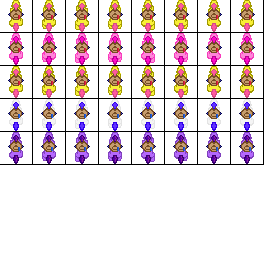
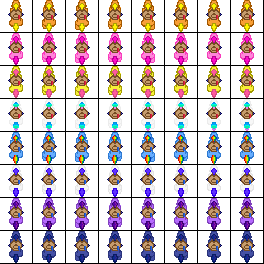
Lots of shit.

diff --git a/src/pudgewars/entities/PudgeEntity.java b/src/pudgewars/entities/PudgeEntity.java
@@ -37,6 +37,7 @@ public class PudgeEntity extends HookableEntity implements LightSource {
 
 	public final static double HOOK_COOLDOWN = 3;
 	public final static double GRAPPLEHOOK_COOLDOWN = 15;
+	public final static double BURNERHOOK_COOLDOWN = 8;
 
 	public final static double ATK_RANGE = 2;
 
@@ -52,9 +53,10 @@ public class PudgeEntity extends HookableEntity implements LightSource {
 
 	// Hooking
 	public int activeHook;
-	public double hookCooldown;
-	public double grappleCooldown;
 	public boolean isHooking;
+	public double hookCooldown;
+	public double burnerCooldown;
+	public double grappleCooldown;
 	// Attacking
 	public double attackInterval;
 
@@ -78,8 +80,10 @@ public class PudgeEntity extends HookableEntity implements LightSource {
 	// Respawning
 	public double respawnInterval = RESPAWN_INTERVAL;
 
-	public PudgeEntity(Vector2 position, Team team) {
+	public PudgeEntity(Vector2 position, Team team, int clientID) {
 		super(position, new Vector2(COLLISION_WIDTH, COLLISION_HEIGHT));
+
+		this.ClientID = clientID;
 
 		this.team = team;
 
@@ -89,7 +93,13 @@ public class PudgeEntity extends HookableEntity implements LightSource {
 
 		rigidbody.physicsSlide = true;
 
-		ani = Animation.makeAnimation("horse2", 8, 32, 32, 0.05);
+		int index = clientID;
+		if (team == Team.leftTeam) index /= 2;
+		else index = (index + 1) / 2;
+		index = team == Team.leftTeam ? index : index + 4;
+		System.out.println("Index: " + index);
+
+		ani = Animation.makeAnimation("cowboys", 8, index, 32, 32, 0.05);
 		ani.startAnimation();
 
 		heart = Animation.makeAnimation("heart4", 8, 32, 32, 1 / 8.0);
@@ -146,30 +156,44 @@ public class PudgeEntity extends HookableEntity implements LightSource {
 			if (hookCooldown < 0) hookCooldown = 0;
 			if (grappleCooldown > 0) grappleCooldown -= Time.getTickInterval();
 			if (grappleCooldown < 0) grappleCooldown = 0;
+			if (burnerCooldown > 0) burnerCooldown -= Time.getTickInterval();
+			if (burnerCooldown < 0) burnerCooldown = 0;
 
 			// Change Cursor
-			if (Game.keyInput.specialHook.isDown) Game.cursor.setCursor("Special");
-			else Game.cursor.setCursor("Default");
+			// if (Game.keyInput.specialHook.isDown) Game.cursor.setCursor("Special");
+			// else Game.cursor.setCursor("Default");
+
+			if (Game.keyInput.n1.wasPressed()) activeHook = HookType.NORMAL;
+			if (Game.keyInput.n2.wasPressed()) activeHook = HookType.BURNER;
+			if (Game.keyInput.n3.wasPressed()) activeHook = HookType.GRAPPLE;
 
 			// Hover
 			if (Game.keyInput.space.isDown) Game.focus = transform.position.clone();
 
 			Vector2 left = Game.mouseInput.left.wasPressed();
 			if (left != null) {
-				if (!Game.keyInput.specialHook.isDown) {
-					if (hookCooldown <= 0) {
-						if (setHook(Game.s.screenToWorldPoint(left), HookType.BURNER)) hookCooldown = HOOK_COOLDOWN;
-						hookTarget = Game.s.screenToWorldPoint(left);
-						shouldSendNetworkData = true;
-					}
-
-					canEntityCollide = true;
-				} else {
-					if (grappleCooldown <= 0) {
-						if (setHook(Game.s.screenToWorldPoint(left), HookType.GRAPPLE)) grappleCooldown = GRAPPLEHOOK_COOLDOWN;
-						hookTarget = Game.s.screenToWorldPoint(left);
-						shouldSendNetworkData = true;
-					}
+				switch (activeHook) {
+					case HookType.NORMAL:
+						if (hookCooldown <= 0) {
+							if (setHook(Game.s.screenToWorldPoint(left), HookType.NORMAL)) hookCooldown = HOOK_COOLDOWN;
+							hookTarget = Game.s.screenToWorldPoint(left);
+							shouldSendNetworkData = true;
+						}
+						break;
+					case HookType.BURNER:
+						if (hookCooldown <= 0) {
+							if (setHook(Game.s.screenToWorldPoint(left), HookType.BURNER)) burnerCooldown = BURNERHOOK_COOLDOWN;
+							hookTarget = Game.s.screenToWorldPoint(left);
+							shouldSendNetworkData = true;
+						}
+						break;
+					case HookType.GRAPPLE:
+						if (grappleCooldown <= 0) {
+							if (setHook(Game.s.screenToWorldPoint(left), HookType.GRAPPLE)) grappleCooldown = GRAPPLEHOOK_COOLDOWN;
+							hookTarget = Game.s.screenToWorldPoint(left);
+							shouldSendNetworkData = true;
+						}
+						break;
 				}
 			}
 
@@ -271,10 +295,6 @@ public class PudgeEntity extends HookableEntity implements LightSource {
 		int lifebarHeight = fullLife.getHeight(null);
 		int lifebarActual = (int) (fullLife.getWidth(null) * stats.lifePercentage());
 
-		// Game.s.g.drawImage(emptyLife, (int) v.x - lifebarWidth / 2, (int) v.y
-		// - lifebarHeight / 2, lifebarWidth, lifebarHeight, null);
-		// life.renderCenteredAt((int) v.x, (int) v.y, stats.lifePercentage());
-
 		Game.s.g.drawImage(emptyLife, (int) v.x - lifebarWidth / 2, (int) v.y - lifebarHeight / 2, (int) v.x + lifebarWidth / 2, (int) v.y + lifebarHeight / 2, //
 				0, 0, lifebarWidth, lifebarHeight, null);
 		Game.s.g.drawImage(fullLife, (int) v.x - lifebarWidth / 2, (int) v.y - lifebarHeight / 2, (int) v.x - lifebarWidth / 2 + lifebarActual, (int) v.y + lifebarHeight / 2, //
@@ -341,7 +361,6 @@ public class PudgeEntity extends HookableEntity implements LightSource {
 	public boolean shouldBlock(BBOwner b) {
 		if (b instanceof HookEntity) return true;
 		if (b instanceof PudgeEntity || b instanceof CowEntity) {
-			// System.out.println("Collided with Pudge/Cow: canEntityCollide = " + canEntityCollide);
 			return canEntityCollide ? true : isHooking;
 		}
 		if (canTileCollide) {
@@ -416,8 +435,6 @@ public class PudgeEntity extends HookableEntity implements LightSource {
 
 			int ht = Integer.parseInt(t[7]);
 			setHook(hookTarget, ht);
-			// if (t[7].equals("false")) setHook(hookTarget, HookType.NORMAL);
-			// else setHook(hookTarget, HookType.GRAPPLE);
 		}
 
 		this.stats.setNetString(t[8]);

diff --git a/src/pudgewars/components/Stats.java b/src/pudgewars/components/Stats.java
@@ -25,6 +25,7 @@ public class Stats {
 
 	public Image[] hookCooldownImages;
 	public Image[] grappleCooldownImages;
+	public Image[] burnerCooldownImages;
 	public Image activeHookSelection;
 
 	// Movement Data
@@ -70,11 +71,14 @@ public class Stats {
 		lifeImages[2] = new ArcImage(ImageHandler.get().getImage("hp_empty"), ImageHandler.get().getImage("hp_quarter"));
 
 		hookCooldownImages = new Image[2];
-		hookCooldownImages[0] = ImageHandler.get().getImage("lasso_icon_empty");
-		hookCooldownImages[1] = ImageHandler.get().getImage("lasso_icon_full");
+		hookCooldownImages[0] = ImageHandler.get().getImage("hooks/lasso_icon_empty");
+		hookCooldownImages[1] = ImageHandler.get().getImage("hooks/lasso_icon_full");
 		grappleCooldownImages = new Image[2];
-		grappleCooldownImages[0] = ImageHandler.get().getImage("grapple_icon_empty");
-		grappleCooldownImages[1] = ImageHandler.get().getImage("grapple_icon_full");
+		grappleCooldownImages[0] = ImageHandler.get().getImage("hooks/grapple_icon_empty");
+		grappleCooldownImages[1] = ImageHandler.get().getImage("hooks/grapple_icon_full");
+		burnerCooldownImages = new Image[2];
+		burnerCooldownImages[0] = ImageHandler.get().getImage("hooks/burner_empty");
+		burnerCooldownImages[1] = ImageHandler.get().getImage("hooks/burner_full");
 
 		activeHookSelection = ImageHandler.get().getImage("hooks/activehook");
 	}
@@ -169,20 +173,26 @@ public class Stats {
 		/*
 		 * Hooks
 		 */
-		// Hook Cooldown
-		GUI.partialHorizontalBar(hookCooldownImages, Game.s.width - (RIGHT_PADDING + grappleCooldownImages[0].getWidth(null) + BAR_PADDING + hookCooldownImages[0].getWidth(null)), //
-				Game.s.height - (BOT_PADDING + hookCooldownImages[0].getHeight(null)), //
-				(1 - (pudge.hookCooldown / PudgeEntity.HOOK_COOLDOWN)));
-		if (pudge.activeHook == HookType.NORMAL) {
-			Game.s.g.drawImage(activeHookSelection, //
-					Game.s.width - (RIGHT_PADDING + grappleCooldownImages[0].getWidth(null) + BAR_PADDING + hookCooldownImages[0].getWidth(null)), //
-					Game.s.height - (BOT_PADDING + hookCooldownImages[0].getHeight(null)), null);
-		}
+		int cW = grappleCooldownImages[0].getWidth(null); // = Cooldown Width
+		int cH = grappleCooldownImages[0].getHeight(null); // = Cooldown height
 
+		int hookTypesCount = 3;
+		int sx = Game.s.width - (RIGHT_PADDING + hookTypesCount * cW + (hookTypesCount - 1) * BAR_PADDING);
+		int sy = Game.s.height - (BOT_PADDING + cH);
+		int xInt = cW + BAR_PADDING;
+
+		// Hook Cooldown
+		GUI.partialHorizontalBar(hookCooldownImages, sx, sy, (1 - (pudge.hookCooldown / PudgeEntity.HOOK_COOLDOWN)));
+		sx += xInt;
+		// Hook Cooldown
+		GUI.partialHorizontalBar(burnerCooldownImages, sx, sy, (1 - (pudge.burnerCooldown / PudgeEntity.BURNERHOOK_COOLDOWN)));
+		sx += xInt;
 		// Grapple Cooldown
-		GUI.partialHorizontalBar(grappleCooldownImages, Game.s.width - (RIGHT_PADDING + grappleCooldownImages[0].getWidth(null)), //
-				Game.s.height - (BOT_PADDING + grappleCooldownImages[0].getHeight(null)), //
-				(1 - (pudge.grappleCooldown / PudgeEntity.GRAPPLEHOOK_COOLDOWN)));
+		GUI.partialHorizontalBar(grappleCooldownImages, sx, sy, (1 - (pudge.grappleCooldown / PudgeEntity.GRAPPLEHOOK_COOLDOWN)));
+
+		// Draw Active Hook Selection
+		int nx = Game.s.width - (RIGHT_PADDING + hookTypesCount * cW + (hookTypesCount - 1) * BAR_PADDING) + pudge.activeHook * xInt;
+		Game.s.g.drawImage(activeHookSelection, nx, sy, null);
 
 		// Draw Experience
 		int ex = LEFT_PADDING + expImages[0].getWidth(null) + BAR_PADDING;
@@ -195,23 +205,12 @@ public class Stats {
 			GUI.partialHorizontalBar(tImg, ex, ey, ((((int) experience)) / 10.0));
 		}
 
-		int TOP_PADDING = 10;
-		int SIDE_PADDING = 10;
-		int MID_SPACING = 4;
-
 		int radius = 60;
 		int cx = Game.s.width / 2;
 		int cy = Game.s.height / 2;
 		double angle = 0;
 		if (isOpen) {
-			// int x = SIDE_PADDING;
-			// int y = TOP_PADDING;
 			for (int i = 0; i < CharStat.length; i++) {
-				// if (i == CharStat.length / 2) {
-				// x = Game.s.width - (ref[i].baseImage.getWidth(null) + SIDE_PADDING);
-				// y = TOP_PADDING;
-				// }
-
 				if (ref[i].drawButtons((int) (radius * Math.cos(angle)) + cx - ref[i].baseImage.getWidth(null) / 2, //
 						(int) (radius * Math.sin(angle)) + cy - ref[i].baseImage.getHeight(null) / 2)) {
 					if (ref[i].getCost() <= experience) {
@@ -222,8 +221,6 @@ public class Stats {
 					}
 				}
 				angle += Math.PI / 3;
-
-				// y += ref[i].baseImage.getHeight(null) + MID_SPACING;
 			}
 		}
 	}

diff --git a/src/pudgewars/entities/ClientEntityManager.java b/src/pudgewars/entities/ClientEntityManager.java
@@ -21,8 +21,7 @@ public class ClientEntityManager extends EntityManager {
 		Team team = (t[6].equals("leftTeam")) ? Team.leftTeam : Team.rightTeam;
 
 		boolean controllable = (t[0].equals("true")) ? true : false;
-		PudgeEntity pudge = new PudgeEntity(position, team);
-		pudge.ClientID = Integer.parseInt(t[2]);
+		PudgeEntity pudge = new PudgeEntity(position, team, Integer.parseInt(t[2]));
 		pudge.name = t[10];
 		pudge.wasUpdated = true;
 
@@ -31,9 +30,9 @@ public class ClientEntityManager extends EntityManager {
 			player.controllable = true;
 		}
 		entities.add(pudge);
-		
+
 		int pudgeIndex = Game.entities.getIndexByClientID(Game.entities.respawnEntities, pudge.ClientID, PudgeEntity.class);
-		if(pudgeIndex != -1) Game.entities.respawnEntities.remove(pudgeIndex);
+		if (pudgeIndex != -1) Game.entities.respawnEntities.remove(pudgeIndex);
 	}
 
 	public void addCowEntity(String msg) {
@@ -58,7 +57,7 @@ public class ClientEntityManager extends EntityManager {
 
 		Vector2 click = new Vector2(Float.parseFloat(u[0]), Float.parseFloat(u[1]));
 		Entity p = Game.entities.entities.get(getIndexByClientID(Game.entities.entities, Integer.parseInt(t[2]), PudgeEntity.class));
-		
+
 		Entity e = null;
 		if (t[1].equals("NORMALHOOK")) {
 			e = new NormalHookEntity((PudgeEntity) p, click);
@@ -82,11 +81,10 @@ public class ClientEntityManager extends EntityManager {
 			Entity e = Game.entities.entities.get(x);
 			if (e instanceof PudgeEntity) {
 				if (((PudgeEntity) e).controllable) Game.showRespawningScreen = false;
-				if (!e.wasUpdated){
+				if (!e.wasUpdated) {
 					e.remove = true;
 					Game.entities.respawnEntities.add(e);
-				}
-				else e.wasUpdated = false;
+				} else e.wasUpdated = false;
 			} else if (e instanceof HookEntity) {
 				if (!e.wasUpdated) {
 					e.remove = true;

diff --git a/src/pudgewars/entities/ServerEntityManager.java b/src/pudgewars/entities/ServerEntityManager.java
@@ -14,17 +14,16 @@ public class ServerEntityManager extends EntityManager {
 		int x = 0, y = 0;
 		for (int i = 0; i < clients.size(); i++) {
 			PudgeEntity p;
-			if (clients.get(i).getTeam() == 0){
-				p = new PudgeEntity(new Vector2(4, 8 * x + 4), Team.leftTeam);
-				p.ClientID = 2*x++;
-			}
-			else{
-				p = new PudgeEntity(new Vector2(20, 8 * y + 4), Team.rightTeam);
-				p.ClientID = 2*y++ + 1;
+			if (clients.get(i).getTeam() == 0) {
+				p = new PudgeEntity(new Vector2(4, 8 * x + 4), Team.leftTeam, 2 * x++);
+				// p.ClientID = 2 * x++;
+			} else {
+				p = new PudgeEntity(new Vector2(20, 8 * y + 4), Team.rightTeam, 2 * y++ + 1);
+				// p.ClientID = 2*y++ + 1;
 			}
 			clients.get(i).setID(p.ClientID);
-			p.name =  clients.get(i).getName();
-					
+			p.name = clients.get(i).getName();
+
 			entities.add(p);
 		}
 

diff --git a/src/pudgewars/entities/hooks/HookType.java b/src/pudgewars/entities/hooks/HookType.java
@@ -2,28 +2,6 @@ package pudgewars.entities.hooks;
 
 public class HookType {
 	public final static int NORMAL = 0;
-	public final static int GRAPPLE = 1;
-	public final static int BURNER = 2;
-
-	// NORMAL("normal"), //
-	// GRAPPLE("grapple");
-	//
-	// private final String name;
-	//
-	// HookType(String s) {
-	// this.name = s;
-	// }
-	//
-	// public String getName() {
-	// return name;
-	// }
-	//
-	// public static HookType getHookType(String s) {
-	// if (s.equals(NORMAL.getName())) {
-	// return NORMAL;
-	// } else if (s.equals(GRAPPLE.getName())) {
-	// return GRAPPLE;
-	// }
-	// return null;
-	// }
+	public final static int BURNER = 1;
+	public final static int GRAPPLE = 2;
 }

diff --git a/src/pudgewars/util/Animation.java b/src/pudgewars/util/Animation.java
@@ -106,6 +106,13 @@ public class Animation {
 		return totalTime;
 	}
 
+	public static Animation makeAnimation(String ref, int numAnimations, int y, int width, int height, double interval) {
+		Animation a = new Animation();
+		for (int i = 0; i < numAnimations; i++)
+			a.add(ImageHandler.get().getImage(ref, i, y, width, height), interval);
+		return a;
+	}
+
 	public static Animation makeAnimation(String ref, int numAnimations, int width, int height, double interval) {
 		Animation a = new Animation();
 		for (int i = 0; i < numAnimations; i++)

diff --git a/src/pudgewars/input/KeyHandler.java b/src/pudgewars/input/KeyHandler.java
@@ -27,6 +27,11 @@ public class KeyHandler implements KeyListener {
 		keys.put(KeyEvent.VK_B, k.buyMode);
 
 		keys.put(KeyEvent.VK_SPACE, k.space);
+
+		keys.put(KeyEvent.VK_1, k.n1);
+		keys.put(KeyEvent.VK_2, k.n2);
+		keys.put(KeyEvent.VK_3, k.n3);
+		keys.put(KeyEvent.VK_4, k.n4);
 	}
 
 	public void keyPressed(KeyEvent e) {

diff --git a/src/pudgewars/entities/CowEntity.java b/src/pudgewars/entities/CowEntity.java
@@ -36,7 +36,7 @@ public class CowEntity extends HookableEntity {
 
 		rigidbody.physicsSlide = true;
 
-		ani = Animation.makeAnimation("cow", 1, 32, 32, 0.05);
+		ani = Animation.makeAnimation("cow2", 1, 32, 32, 0.05);
 		ani.startAnimation();
 
 		clicker = ImageHandler.get().getImage("selector");
